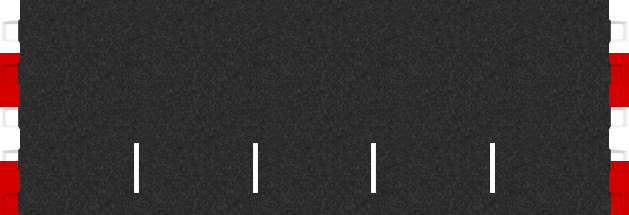
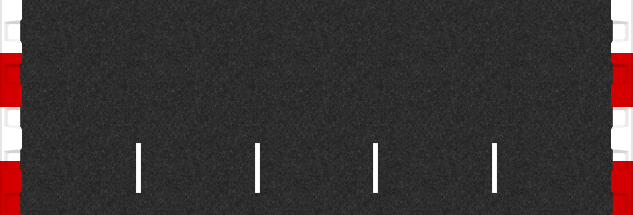
images ++

diff --git a/css/game.css b/css/game.css
@@ -49,7 +49,7 @@ body{
 
 .road{
 	background: url("../images/road.png");
-	width: 629px;
+	width: 633px;
 	height: 100%;
 	margin: 0 auto;
 	min-height: 700px;
@@ -59,8 +59,8 @@ body{
 
 
 .bg-animation{
-    animation: runBackground 1s linear infinite;
-    -webkit-animation: runBackground 1s linear infinite;
+    animation: runBackground 500ms linear infinite;
+    -webkit-animation: runBackground 500ms linear infinite;
 }
 
 @-webkit-keyframes runBackground {
@@ -90,7 +90,7 @@ body{
 #voiture{
 	position:absolute;
 	bottom: 20px;
-    background-color:black;
+    background-color:#950202;
 }
 
 
@@ -102,11 +102,12 @@ body{
 
 .car{
     border-radius:4px;
-    border: 2px solid:#000;
     box-shadow: 0 0 5px 0 #000;
     width: 50px;
     height: 90px;
     transition:left 200ms;
+    background: url("../images/car.png");
+    background-color:#888;
 }
 
 .car::before,.car::after{
@@ -115,8 +116,8 @@ body{
     height: 18px;
     position: absolute;
     top:15px;
-    background: blue;
-    box-shadow: 0 50px 0 0 blue;
+    background: #000;
+    box-shadow: 0 50px 0 0 #000;
 }
 .car::before{
     left:-3px;

diff --git a/js/Voiture.js b/js/Voiture.js
@@ -27,7 +27,7 @@ function MouvementPlayer(keyCode){
         voiture.style.left = horizontalCalc.toString() + "px";
 
         /*if(keyCode == CODE_TOUCHE_HAUT){
-            verticalCalc = parseInt(voiture.style.bottom) + move;
+            verticalCalc = parseInt(voiture.style.bottom) + move; 
         }
         else if(keyCode == CODE_TOUCHE_BAS){
             verticalCalc = parseInt(voiture.style.bottom) - move;

diff --git a/game.html b/game.html
@@ -13,7 +13,9 @@
   </head>
   <body class="bg-animation">
 	<div class="road bg-animation">
+
 	  	<div class="vehiculeEnemy" id="vehiculeEnemy" onclick="deplacerVehicule();"></div>
+
 	  	<div id="voiture" class="car"></div>
 	  </div>
 	</div>
